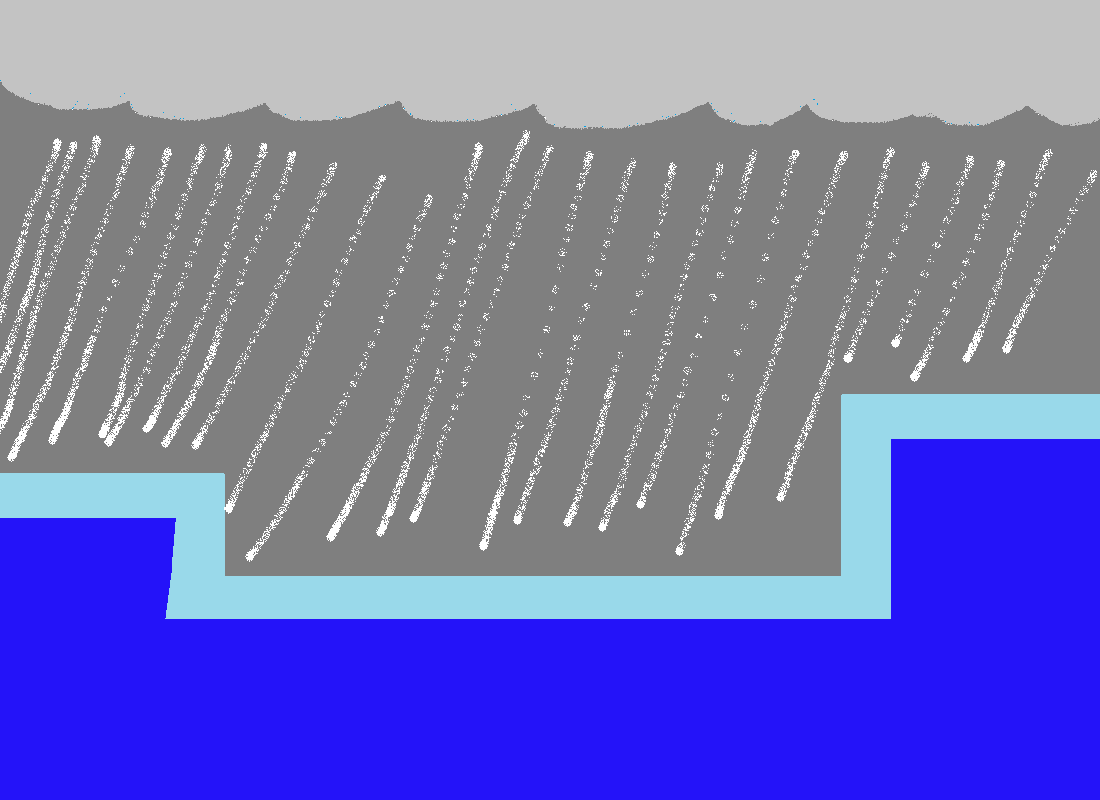
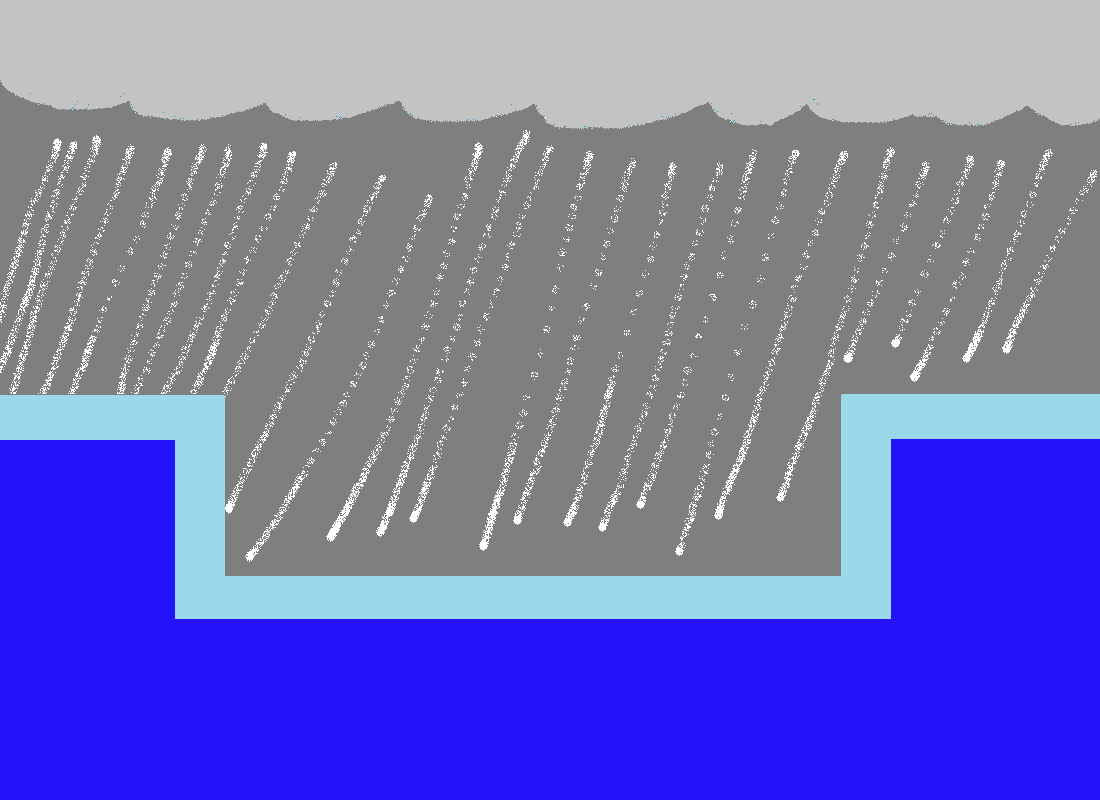
balancing

Changed region(s): [[0.0, 0.4688, 0.2164, 0.6562], [0.1545, 0.7188, 0.1855, 0.7812]]

diff --git a/levels/IceLevel.py b/levels/IceLevel.py
@@ -8,9 +8,9 @@ class IceLevel(Level):
         super().__init__(screen, "media/Levels/SnowMap.png")
 
         # TODO Add platforms
-        self.ground1 = Platform(screen, 0, 473, 225, 200, -1)
-        self.ground2 = Platform(screen, 224, 576, 616, 200, -1)
-        self.ground3 = Platform(screen, 841, 394, 259, 200, -1)
+        self.ground1 = Platform(screen, 0, 394, 225, 406, -1)
+        self.ground2 = Platform(screen, 224, 576, 616, 224, -1)
+        self.ground3 = Platform(screen, 841, 394, 259, 406, -1)
         self.platformGroup.add(self.ground1)
         self.platformGroup.add(self.ground2)
         self.platformGroup.add(self.ground3)

diff --git a/players/Jakob.py b/players/Jakob.py
@@ -22,7 +22,7 @@ class Jakob(Player):
         self.const = 0
         self.attacksprite = pygame.image.load("media/Players/David/DavidAttack.png").convert()
         self.specialsprite = pygame.image.load("media/Players/David/DavidSpecial.png").convert()
-        self.special_cooldown = Cooldown(3)
+        self.special_cooldown = Cooldown(5)
         self.special_duration = Cooldown(1)
         self.special_start_time = 0
         self.special_count = 0

diff --git a/players/David.py b/players/David.py
@@ -21,7 +21,7 @@ class David(Player):
         self.specialsprite = pygame.image.load("media/Players/David/DavidSpecial.png").convert_alpha()
         # special
         self.special_cooldown = Cooldown(5)
-        self.special_duration = Cooldown(2)
+        self.special_duration = Cooldown(1)
         self.special_active = False
         self.targetMoveSpeed = 0
 
